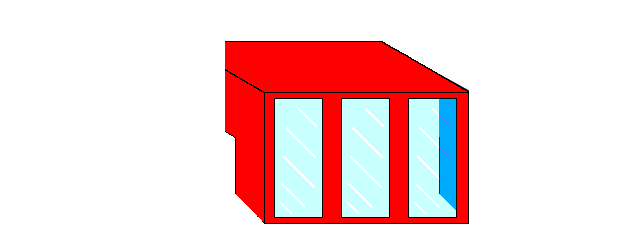
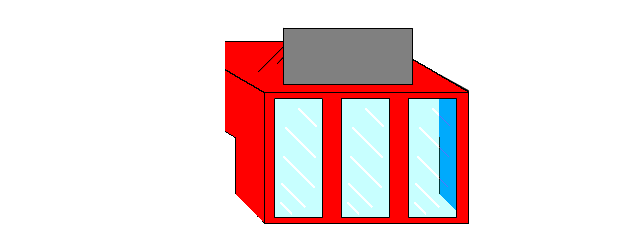
Last minute change: added sign to store

Changed region(s): [[0.4062, 0.1167, 0.6562, 0.3792]]

diff --git a/js/game.js b/js/game.js
@@ -53,7 +53,8 @@ var assets = {
         "assets/img/house5.png", "assets/img/house6.png", "assets/img/sidewalk0.png", "assets/img/sidewalk1.png",
         "assets/img/street0.png", "assets/img/street1.png", "assets/img/street2.png", "assets/img/clouds.png", "assets/music.mp3",
         "assets/jump.wav", "assets/yelp.mp3", "assets/img/store-background.png", "assets/img/store-foreground.png",
-        "assets/img/treat.png", "assets/woof.mp3"],
+        "assets/img/treat.png", "assets/woof.mp3", "assets/img/sign0.png", "assets/img/sign1.png", "assets/img/sign2.png",
+        "assets/img/sign3.png", "assets/img/sign4.png"],
     assetsTotal: -1,
     assetsLoaded: 0
 };
@@ -62,6 +63,8 @@ var mainMenu = {
     titleDestY: 15
 };
 var game = {
+    storeName: "",
+    storeLogo: "",
     treatYValue: 0,
     treatY: 0,
     atEnd: false,
@@ -226,7 +229,7 @@ function goToLevel(level) {
     game.level = level;
     game.levelSpeed = level;
     game.data = loadLevel();
-    game.levelX = -10 * level;
+    game.levelX = -10 + (-3 * level);
     if (game.playerCurrentLane != game.playerLastLane) {
         game.playerIsMoving = true;
         if (game.playerLastLane == 0)
@@ -508,6 +511,10 @@ cq(640, 480).framework({
             if (game.data != undefined && game.levelX >= game.data[0].length - 10) {
                 this.drawImage(assets.data[url + "assets/img/store-background.png"], (game.levelX * -64) + ((game.data[0].length) * 64) + 2, -1, 1280, 480)
                 if (game.levelX >= game.data[0].length && !game.atEnd) {
+                    var names = ["A Walk in the Bark", "Dog Gone It", "Live Long and Slobber", "On the Growl", "Raise the Woof",
+                        "Fur Get Me Not", "The Big Bad Woof", "Stay Pawsitive", "For Pet's Sake", "Wags to Riches"]
+                    game.storeName = names[Math.floor(Math.random() * names.length)];
+                    game.storeLogo = (url + "assets/img/sign" + Math.floor(Math.random() * 5) + ".png");
                     game.levelSpeed = -0.5;
                     game.playerLastLane = game.playerCurrentLane;
                     game.playerCurrentLane = 1;
@@ -517,6 +524,8 @@ cq(640, 480).framework({
                 }
             }
             if (activeScreen == 1 || activeScreen == 3) {
+                if (game.playerIsJumping)
+                    this.drawImage(assets.data[url + "assets/img/shadow.png"], game.playerX, game.playerJumpStartY, 64, 64);
                 //Draw Obstacles
                 for (var row = 3; row >= 0; row--) {
                     var drawY;
@@ -548,12 +557,13 @@ cq(640, 480).framework({
                             this.drawImage(assets.data[url + "assets/img/boxer-running" + Math.floor(game.playerRunningFrame) + ".png"], game.playerX, game.playerY, 64, 64);
                         } else {
                             this.drawImage(assets.data[url + "assets/img/boxer-jumping.png"], game.playerX, game.playerY, 64, 64);
-                            this.drawImage(assets.data[url + "assets/img/shadow.png"], game.playerX, game.playerJumpStartY, 64, 64);
                         }
                     }
                     if (!game.completionTreatAwarded)
                         this.drawImage(assets.data[url + "assets/img/treat.png"], (game.levelX * -64) + ((game.data[0].length) * 64) + 640 + 54, 340 + game.treatY, 72, 42);
-                    this.drawImage(assets.data[url + "assets/img/store-foreground.png"], (game.levelX * -64) + ((game.data[0].length) * 64) + 2, -1, 1280, 480);
+                    this.drawImage(assets.data[url + "assets/img/store-foreground.png"], (game.levelX * -64) + ((game.data[0].length) * 64) + 2, -1, 1280, 480)
+                    if (game.storeLogo != undefined && game.storeName != "")
+                        this.font("20pt 'Droid Sans' serif").fillStyle('white').drawImage(assets.data[game.storeLogo], (game.levelX * -64) + ((game.data[0].length) * 64) + 575, 60, 100, 100).wrappedText(game.storeName, (game.levelX * -64) + ((game.data[0].length) * 64) + 680, 80, 150);
                     if (game.playerIsRunning) {
                         var player = {
                             left: game.playerX + 10,
